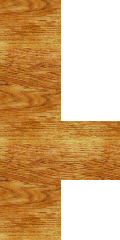
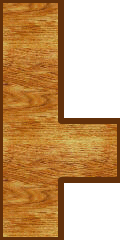
Обвел фигуры и начал делать определение текущей

Changed region(s): [[0.0, 0.0, 1.0, 1.0]]

diff --git a/main.py b/main.py
@@ -35,14 +35,22 @@ class Board:
     def __init__(self):
         self.field = []
         self.sprites = pygame.sprite.Group()
-        LBigPiece(550, 350, self.sprites)
-        CPiece(620, 270, self.sprites)
-        LSmallPiece(550, 20, self.sprites)
-        OPiece(620, 10, self.sprites)
-        PPiece(760, 10, self.sprites)
-        TPiece(760, 280, self.sprites)
-        ZBigPiece(890, 10, self.sprites)
-        ZSmallPiece(900, 280, self.sprites)
+        self.l_big_piece = LBigPiece(550, 350, self.sprites)
+        self.c_piece = CPiece(620, 270, self.sprites)
+        self.l_small_piece = LSmallPiece(550, 20, self.sprites)
+        self.o_piece = OPiece(620, 10, self.sprites)
+        self.p_piece = PPiece(760, 10, self.sprites)
+        self.t_piece = TPiece(760, 280, self.sprites)
+        self.z_big_piece = ZBigPiece(890, 10, self.sprites)
+        self.z_small_piece = ZSmallPiece(900, 280, self.sprites)
+        self.arr_sprites = [self.l_big_piece, self.c_piece, self.l_small_piece, self.o_piece,
+                            self.p_piece, self.t_piece, self.z_big_piece, self.z_small_piece]
+        self.current_piece = None
+
+    def set_current_piece(self, number):
+        for sprite in self.arr_sprites:
+            if sprite.is_current:
+                self.current_piece = sprite.number
 
     def new(self):
         self.field = [[-1, -1, -1, -1, -1, -1, -1, -1, -1],
@@ -93,12 +101,11 @@ class Piece(pygame.sprite.Sprite):
         self.number = number
         self.image = image
         self.matrix = []
+        self.is_current = False
 
     def update(self, *args):
         if args and args[0].type == pygame.MOUSEBUTTONDOWN and self.rect.collidepoint(args[0].pos):
-            print(self.number)
-            return self.number
-        return 0
+            self.is_current = not self.is_current
 
 
 class LBigPiece(Piece):
@@ -114,7 +121,6 @@ class LBigPiece(Piece):
                        [1, 1, 1]]
         self.visible = 1
 
-
 class CPiece(Piece):
     image = load_image('Ct.png')
 
@@ -127,7 +133,6 @@ class CPiece(Piece):
                        [1, 0],
                        [1, 1]]
         self.visible = 1
-
 
 class LSmallPiece(Piece):
     image = load_image('L-smallt.png')
@@ -142,7 +147,6 @@ class LSmallPiece(Piece):
                        [1, 0],
                        [1, 1]]
         self.visible = 1
-
 
 class OPiece(Piece):
     image = load_image('Ot.png')
